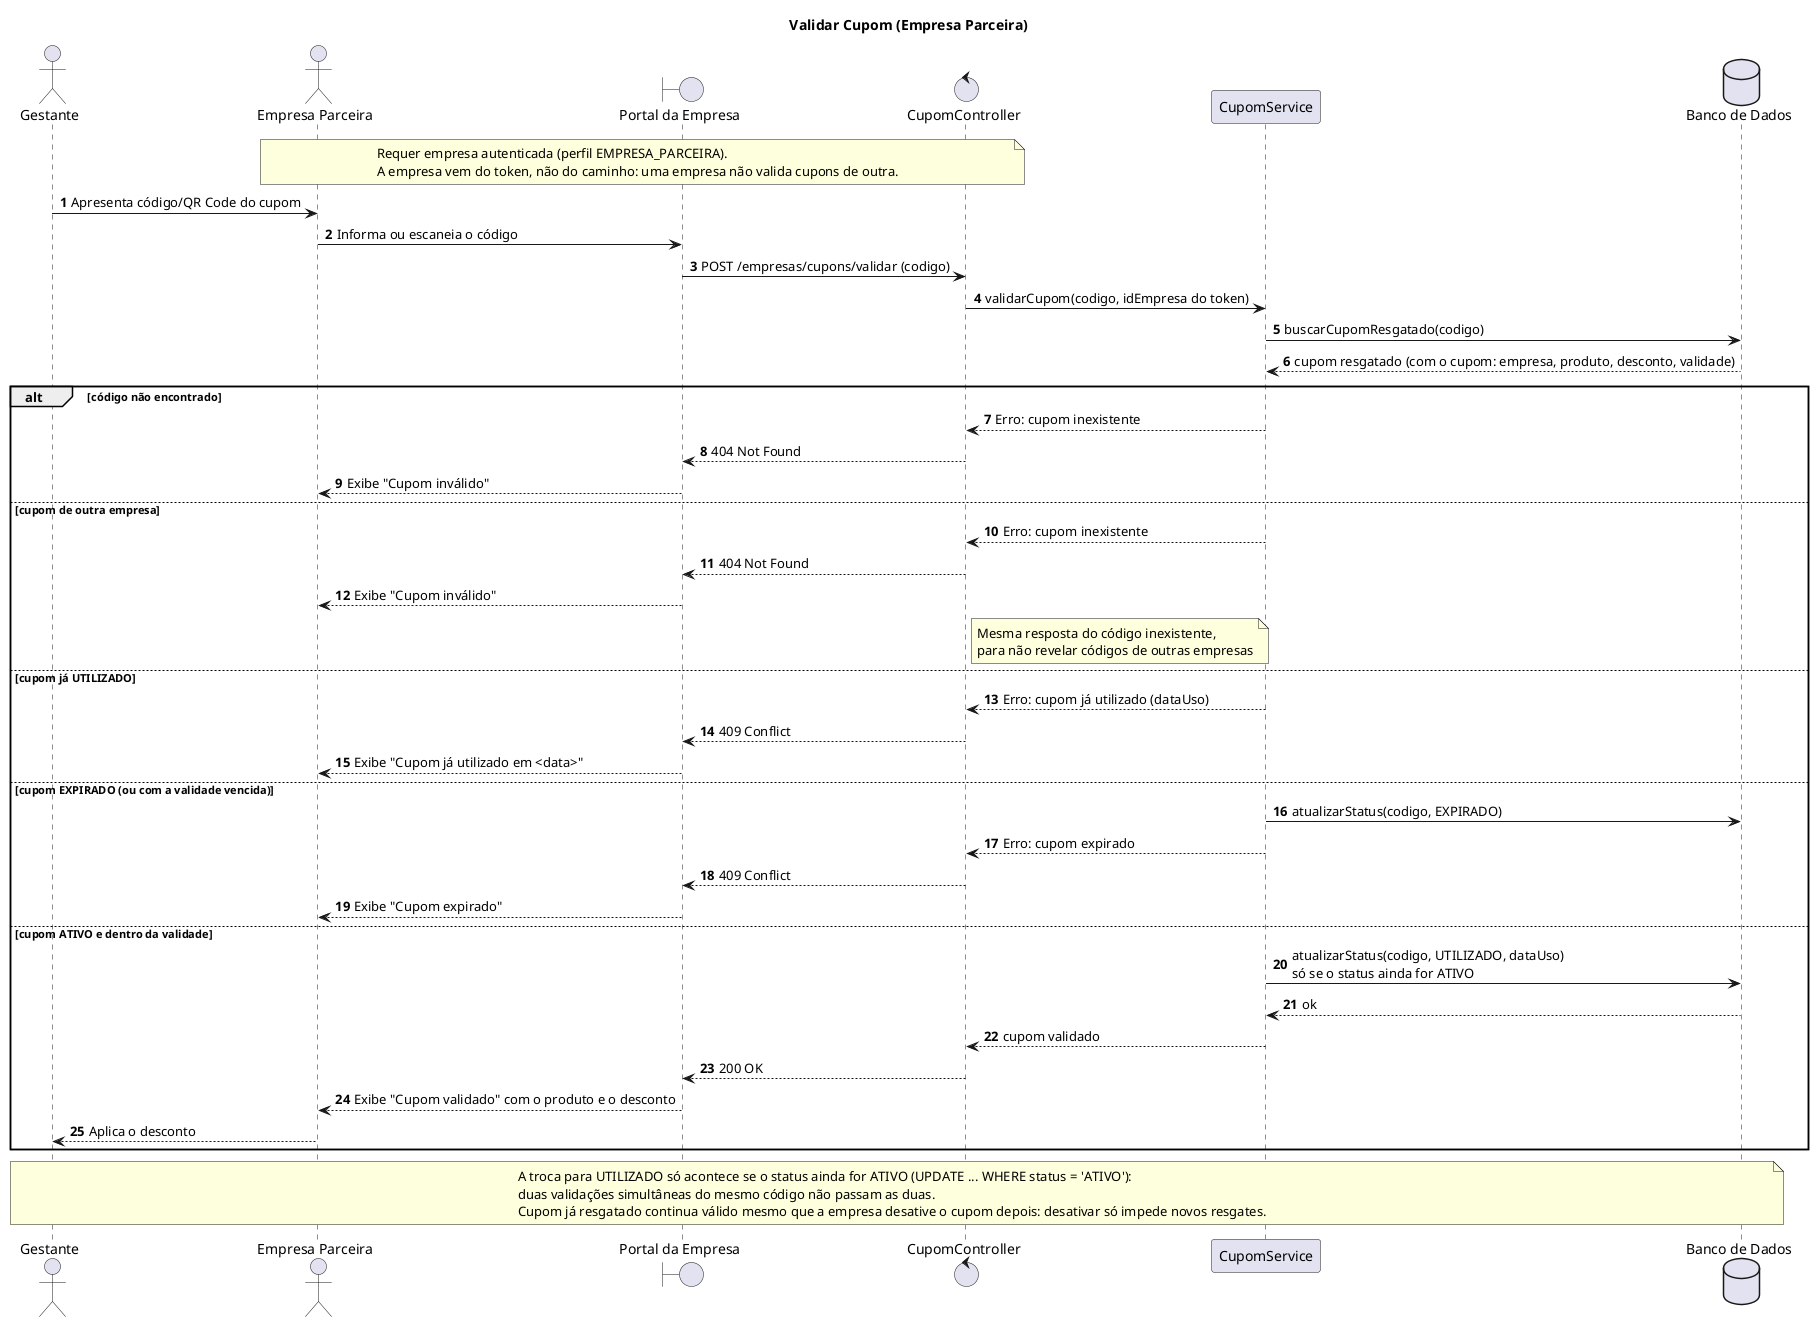
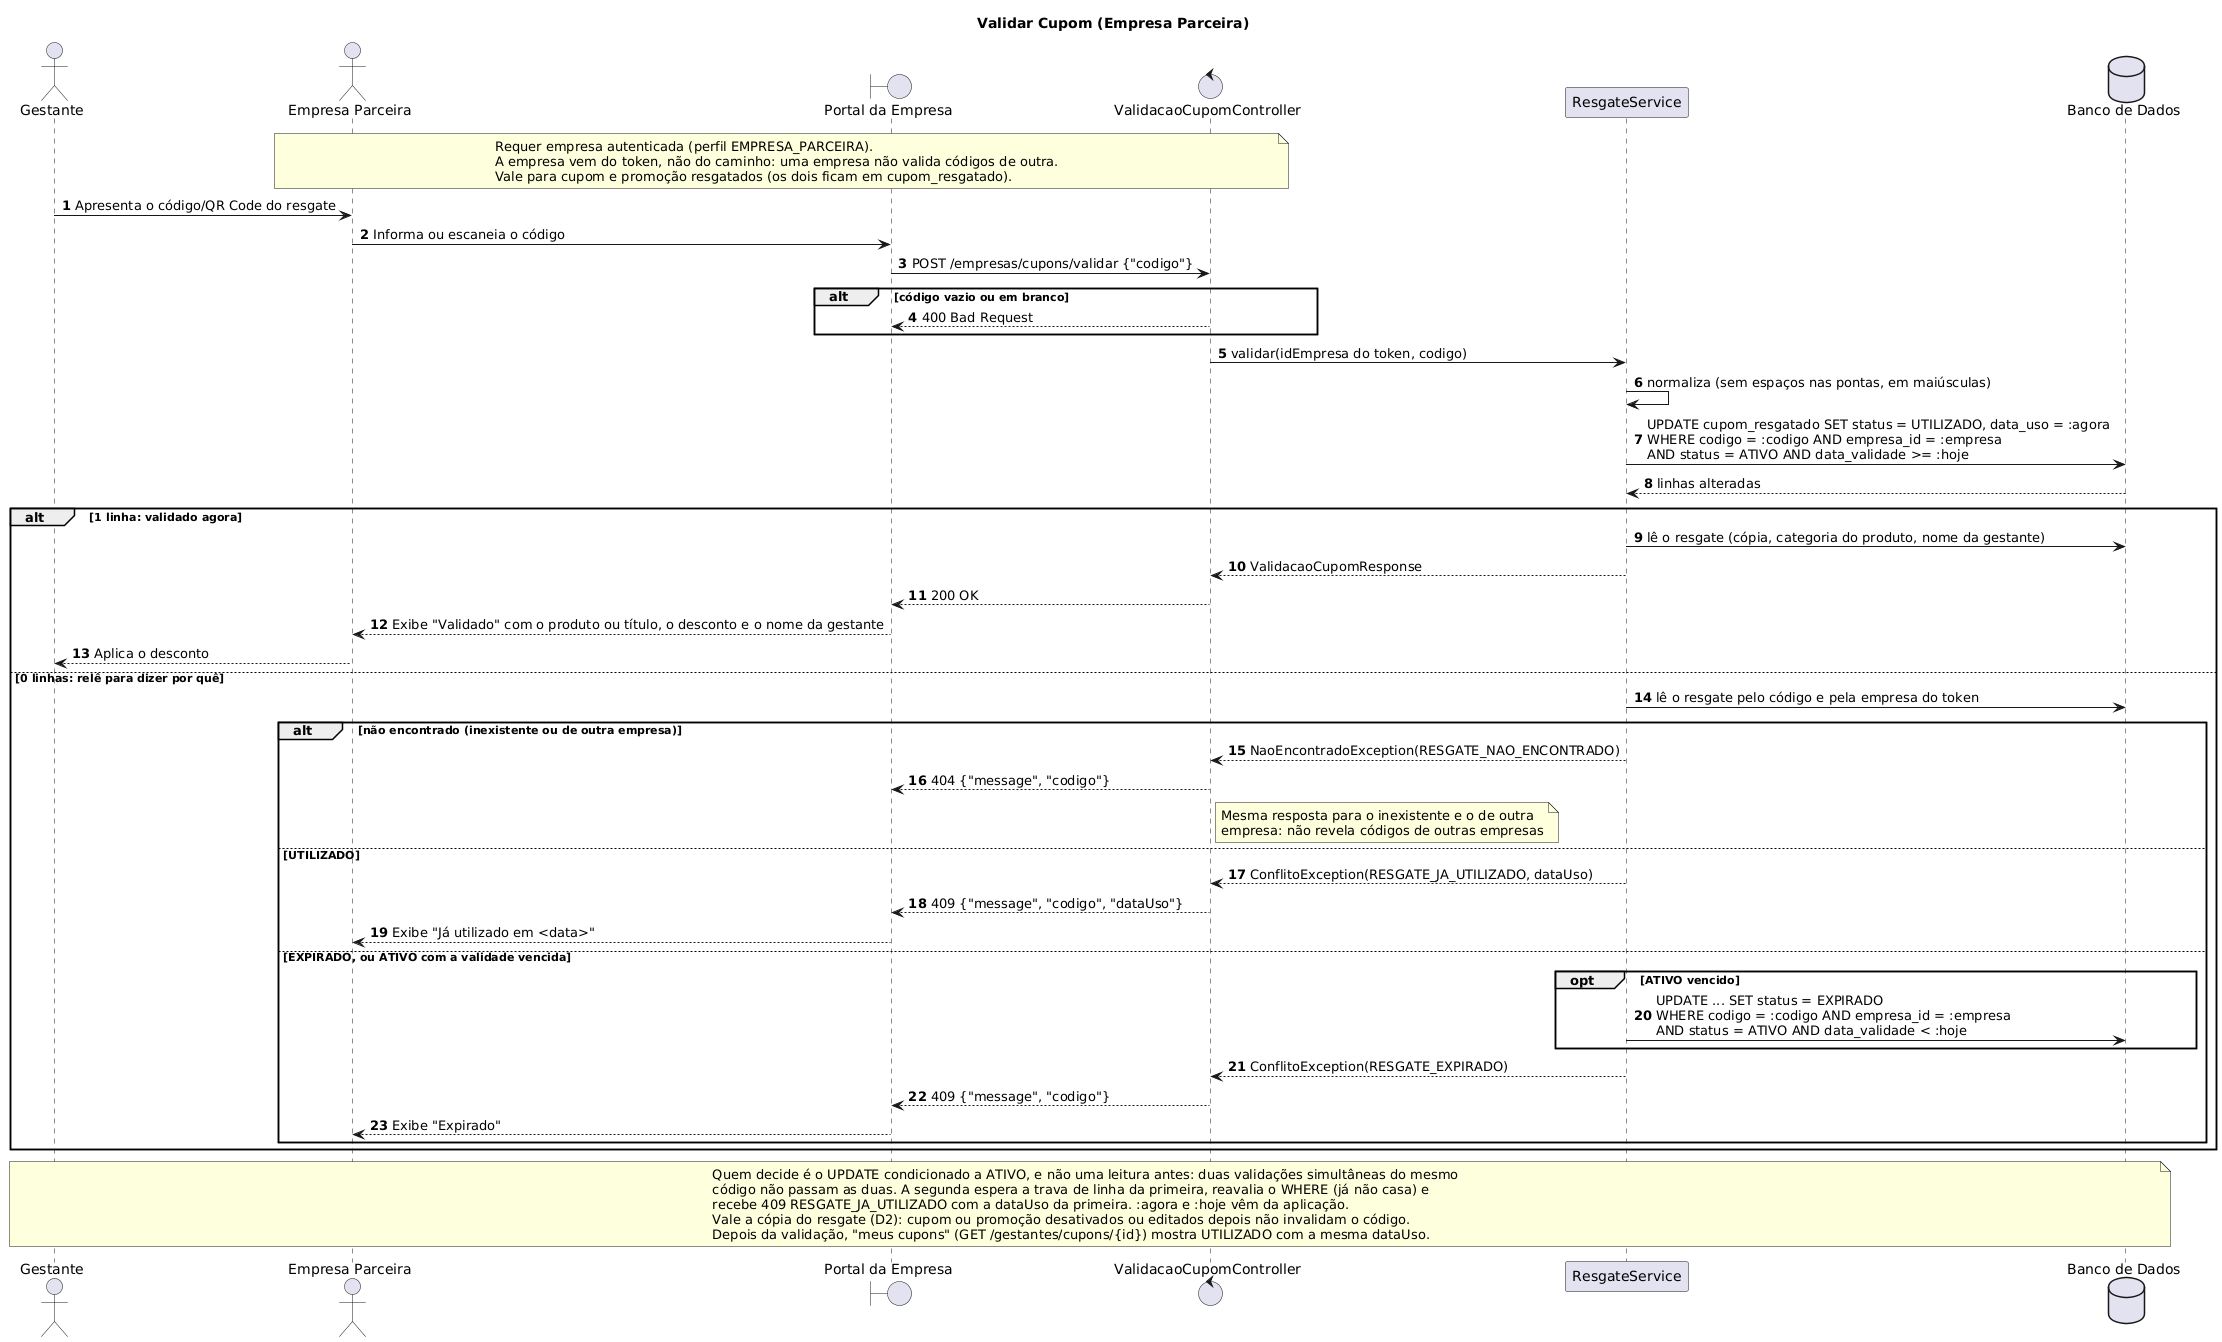
docs: rota de validação do código, códigos de erro novos e diagrama de sequência

diff --git a/docs/README.md b/docs/README.md
@@ -83,6 +83,24 @@ No modelo lógico, as tabelas em cinza ainda não têm migração (auditoria); a
   vencido continua `UTILIZADO`. Duas listagens simultâneas da mesma gestante não se atrapalham: a segunda espera a
   trava de linha da primeira, reavalia o `WHERE`, que já não casa, e lê o que a primeira gravou. Por isso a transação
   da leitura não é `readOnly`.
+- **Validar Cupom (código na loja):** `POST /empresas/cupons/validar`, só o perfil `EMPRESA_PARCEIRA`, corpo
+  `{"codigo": "AB12CD34"}`, vale para cupom e promoção. O código é aceito com espaços nas pontas e em minúsculas (o
+  gerado é sempre maiúsculo); vazio ou em branco, `400`. A troca para `UTILIZADO` é **um `UPDATE` só**:
+  `SET status = 'UTILIZADO', data_uso = :agora WHERE codigo = :codigo AND empresa_id = :empresa AND status = 'ATIVO'
+  AND data_validade >= :hoje`, sem ler a linha antes para decidir, sem trava em memória. Duas validações simultâneas
+  do mesmo código: a segunda espera a trava de linha da primeira, reavalia o `WHERE`, que já não casa, e recebe
+  `409`. Só quando o `UPDATE` não mudou nada o resgate é relido, para dizer por quê: não achou (inexistente ou de
+  outra empresa: a mesma consulta, filtrada pela empresa do token) `404` `RESGATE_NAO_ENCONTRADO`; `UTILIZADO`,
+  `409` `RESGATE_JA_UTILIZADO` com a `dataUso` do primeiro uso no corpo; `EXPIRADO`, ou `ATIVO` vencido (que antes
+  de responder vira `EXPIRADO`, com o `UPDATE` também condicionado a `ATIVO`; o `409` não desfaz a transação,
+  `noRollbackFor`, senão o `EXPIRADO` se perdia), `409` `RESGATE_EXPIRADO`. O `UTILIZADO`
+  vencido continua "já utilizado". `:agora` e `:hoje` vêm da aplicação (a mesma hora da `data_resgate` e da expiração
+  na leitura), e não do `now()` do banco. Vale a cópia do resgate (D2): cupom ou promoção desativados ou editados
+  depois não invalidam o código, e a resposta traz o desconto e a validade copiados. O `200`
+  (`ValidacaoCupomResponse`) traz `id`, `tipo`, `codigo`, `titulo` (só promoção), `produtoNome` (só cupom),
+  `categoria` e `desconto` (como em "meus cupons"), `validade`, `dataResgate`, `dataUso` e `gestanteNome` — da
+  gestante, só o nome. Os nulos vão no JSON. Depois da validação, o app da gestante vê o resgate `UTILIZADO` com a
+  mesma `dataUso`.
 - **Uma promoção ativa por categoria em cada período (D12):** a empresa não tem duas promoções ativas da mesma
   categoria com períodos que se cruzam (os dois dias inclusos: uma que termina no dia 10 e outra que começa no 11 não
   se cruzam). A exclusão `promocao_sem_sobreposicao` (`V23`, GiST com `btree_gist`, só entre as `ativo`) barra no
@@ -95,10 +113,13 @@ No modelo lógico, as tabelas em cinza ainda não têm migração (auditoria); a
   tem migração nem é gravada. Por ora o rastro de quem resolveu está em `agendamento.confirmado_por` e
   `agendamento.data_confirmacao`.
 - **Regra de negócio violada:** `409 Conflict` (`ConflitoException`); dados inválidos, `400 Bad Request`. A API não usa 422.
-- **Código estável nos conflitos:** os `409` que os fronts tratam de forma própria levam, ao lado de `message`, o
-  campo `codigo` com o nome de uma constante de `CodigoErro`, por exemplo
+- **Código estável nos erros:** os `409` (e os `404`) que os fronts tratam de forma própria levam, ao lado de
+  `message`, o campo `codigo` com o nome de uma constante de `CodigoErro`, por exemplo
   `{"message": "Promoção já resgatada", "codigo": "PROMOCAO_JA_RESGATADA"}`. Os demais erros não trazem o campo (nem
-  `"codigo": null`): o corpo continua `{"message": "..."}`. **Os fronts decidem pelo `codigo`, nunca pelo texto de
+  `"codigo": null`): o corpo continua `{"message": "..."}`. O código já utilizado leva também `dataUso` (ISO-8601,
+  como as datas de "meus cupons"):
+  `{"message": "Código já utilizado", "codigo": "RESGATE_JA_UTILIZADO", "dataUso": "2026-11-19T14:05:00Z"}`; nos
+  outros erros o campo não aparece. **Os fronts decidem pelo `codigo`, nunca pelo texto de
   `message`**, que é só para exibir e pode mudar; renomear uma constante, por outro lado, quebra o contrato. Códigos:
 
   | `codigo` | Quando | `message` |
@@ -109,6 +130,9 @@ No modelo lógico, as tabelas em cinza ainda não têm migração (auditoria); a
   | `CUPOM_INDISPONIVEL` | resgate de cupom desativado ou fora da validade | "Cupom indisponível" |
   | `PONTOS_INSUFICIENTES` | resgate de cupom sem saldo (na conferência ou no débito) | "Pontos insuficientes" |
   | `AGENDAMENTO_PENDENTE_REPETIDO` | agendamento igual a um pendente da gestante na mesma data | "Essa gestante já tem esse exame ou consulta pendente nessa data" |
+  | `RESGATE_NAO_ENCONTRADO` (`404`) | validação de código inexistente ou de outra empresa (a mesma resposta) | "Código não encontrado" |
+  | `RESGATE_JA_UTILIZADO` | validação de código já validado; o corpo traz `dataUso` | "Código já utilizado" |
+  | `RESGATE_EXPIRADO` | validação de código vencido (gravado como `EXPIRADO` antes de responder) | "Código expirado" |
 - **Autorização antes da validação:** o `@PreAuthorize` de cada rota é conferido antes de o corpo ser lido e validado
   (`AutorizacaoAntesDaValidacao`): papel errado recebe `403` mesmo com corpo inválido, sem ver as regras de validação.
 - **Primeiro acesso:** o token da senha temporária tem o papel `PRIMEIRO_ACESSO_<perfil>` (`PRIMEIRO_ACESSO_GESTANTE`,
@@ -147,4 +171,4 @@ No modelo lógico, as tabelas em cinza ainda não têm migração (auditoria); a
 - **Cópia do cupom no resgate:** `cupom_resgatado` guarda produto, empresa, desconto, validade e pontos do momento do
   resgate (`V17`). A resposta do resgate e o extrato vêm dessa cópia: editar o cupom ou renomear o produto depois não
   muda o que a gestante resgatou. `cupom_id` continua, para saber de onde o resgate veio.
-- **Validação de cupom:** cupom de outra empresa tem a mesma resposta do código inexistente (404); o cupom já resgatado continua válido se a empresa desativar o cupom depois.
+- **Validação de cupom:** cupom de outra empresa tem a mesma resposta do código inexistente (404); o cupom já resgatado continua válido se a empresa desativar o cupom depois (ver "Validar Cupom" acima).
